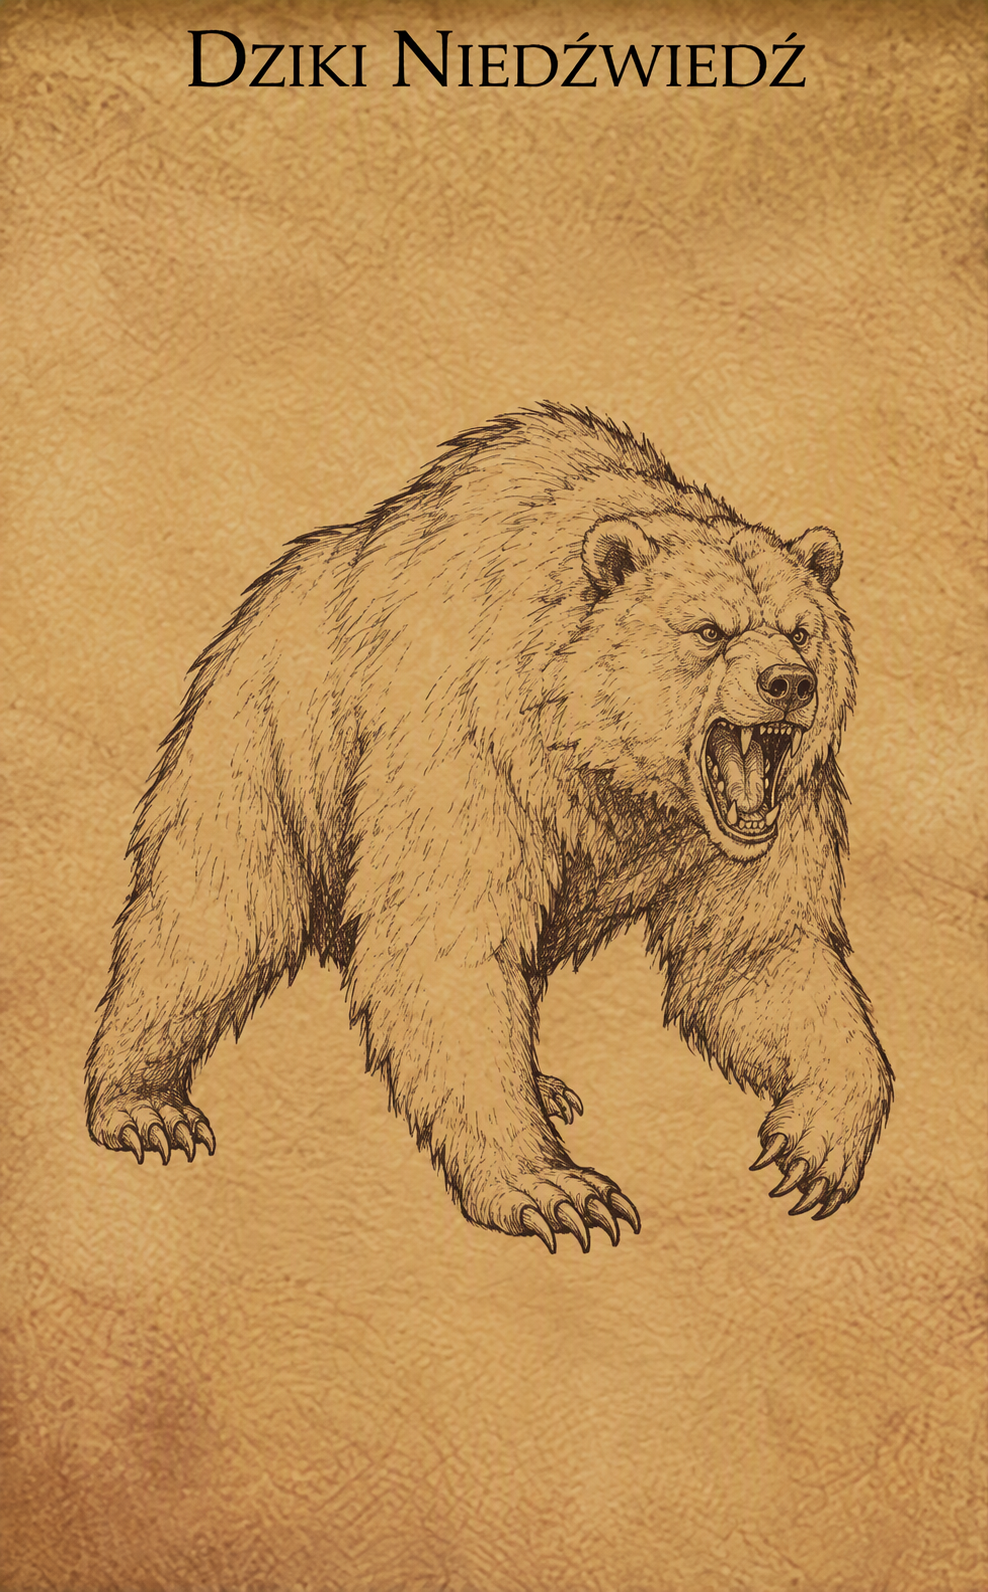
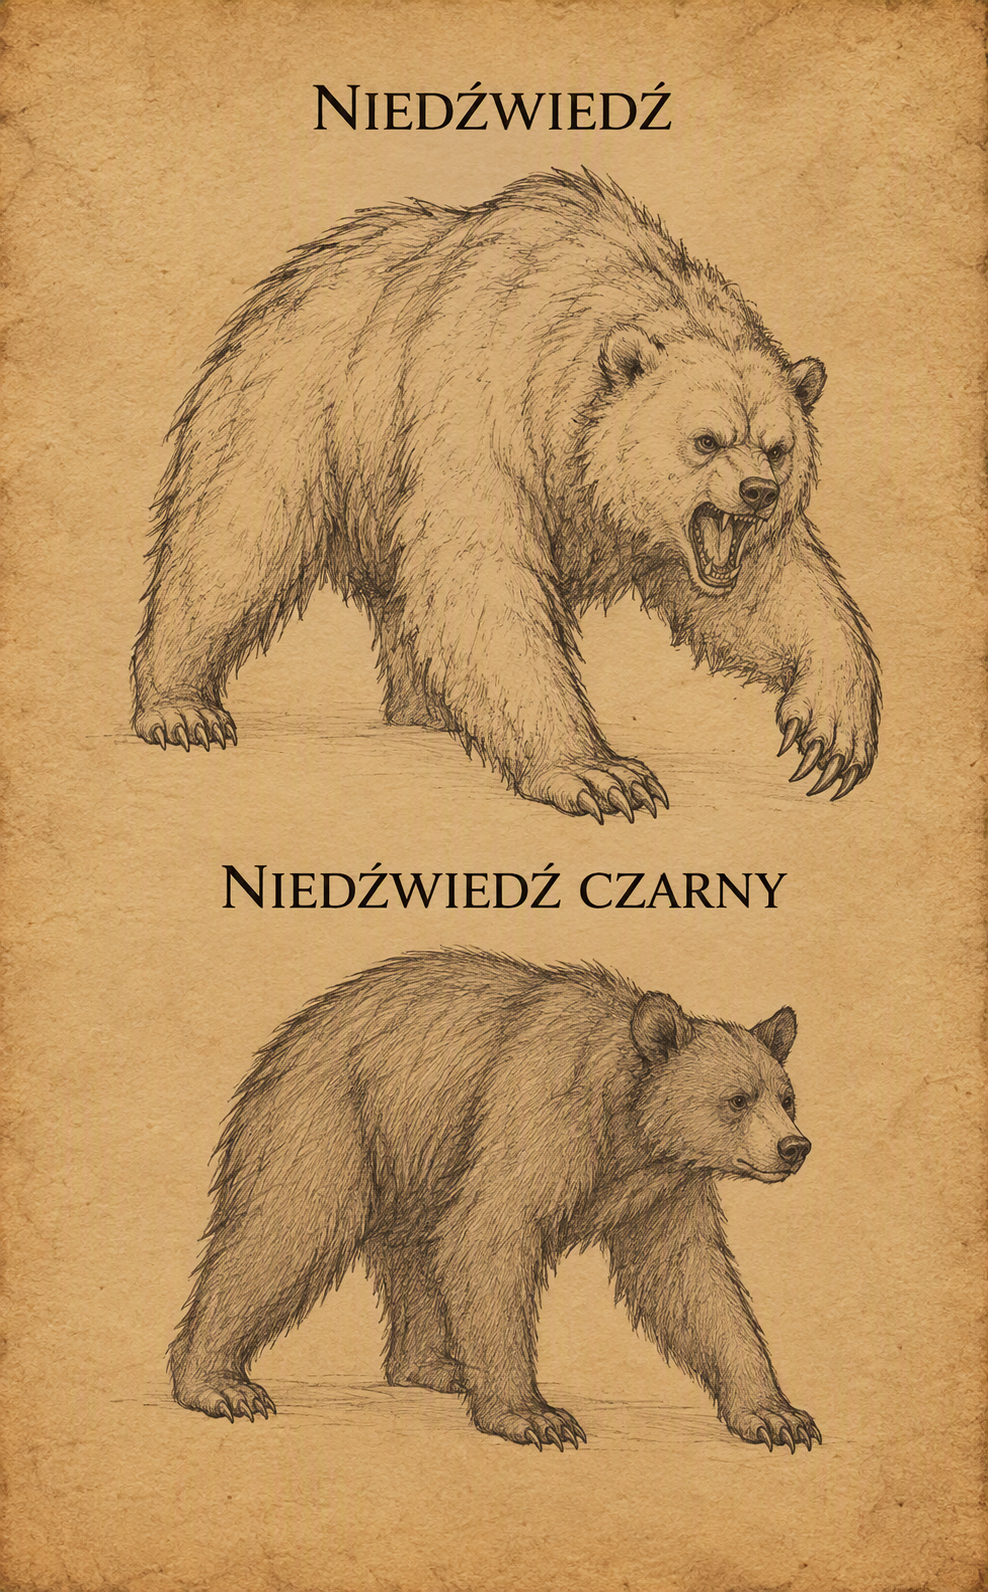
new file:   docs/images/bandyta.webp 	new file:   docs/images/belkotek.webp 	new file:   docs/images/dzik.webp 	new file:   docs/images/leech_szkic.webp 	modified:   docs/images/niedzwiedz.webp 	new file:   docs/images/niedzwiedziozuk.webp 	new file:   docs/images/ogr.webp 	new file:   docs/images/o

diff --git a/docs/other/bestie.md b/docs/other/bestie.md
@@ -1,11 +1,22 @@
 
 |Nazwa|Opis|Wygląd|
 |-------------|-------------------------------------------|-----------------------|
-|Dziki niedźwiedź|Potężne stworzenie reprezentujące czystą, nieokiełznaną siłę natury. Spotykany najczęściej w gęstych lasach, górskich ostępach i jaskiniach, z reguły unika ludzi, chyba że broni swojego terytorium, młodych lub szuka pożywienia przed zimą. W walce polega na ogromnej masie, ostrych pazurach i potężnym uścisku szczęk, szarżując na przeciwnika z oślepiającą furią. Choć dla doświadczonych poszukiwaczy przygód stanowi jedynie naturalne zagrożenie, w oczach druidów i traperów pozostaje jednym z najbardziej szanowanych i niebezpiecznych drapieżników dzikich ostępów.|[![Niedźwiedź](../images/niedzwiedz.webp){ .center-img width="30%" }](../images/niedzwiedz.webp)|
+|Bełkotek|Chory bełkotek (zwany także gibberlingiem) to szkaradna, zniekształcona odmiana i tak już przerażającego stworzenia stanowi jedno z najbardziej odpychających zagrożeń w głębi podziemi i mrocznych kniei. Dotknięty toczącą go zarazą, chory bełkotek jest jeszcze bardziej nieprzewidywalny i agresywny niż jego zdrowi pobratymcy. Z jego owrzodzonej skóry sączy się jadowita mazi, a z pyska – obok charakterystycznego, szaleńczego bełkotu – dobiega głuchy, męczeński skowyt. W walce stanowi podwójne niebezpieczeństwo: choć sam w sobie jest fizycznie wątły i łatwy do pokonania, bezpośredni kontakt z nim grozi zarażeniem ciężką chorobą. Każdy cios zadany temu stworzeniu lub ukąszenie z jego strony może przenieść na poszukiwacza przygód wyniszczającą infekcję, co czyni starcie z całymi chmarami tych potworów wyścigiem z czasem.|[![Bełkotek](../images/belkotek.webp){ .center-img width="30%" }](../images/belkotek.webp)|
+|Dzik|To niezwykle agresywny i terytorialny drapieżnik, na którego łatwo natknąć się w gęstych lasach Wybrzeża Mieczy. Dzik nie czeka na ruch przeciwnika – wyczuwszy zagrożenie, natychmiast prze do przodu pełną szarżą, starając się nadziać wroga na ostre jak brzytwa kły. Ze względu na swoją ślepą furię potrafi z łatwością powalić poturbowanego lub nieostrożnego poszukiwacza przygód.|[![Dzik](../images/dzik.webp){ .center-img width="30%" }](../images/dzik.webp)|
 |Hobgoblin|Dyscyplina, bezwzględność i wojenny kunszt – hobgobliny to sprytni, mierzący ponad metr osiemdziesiąt wzrostu kuzyni goblinów, tworzący wysoce zorganizowane militarne społeczności. Odziani w ciężkie zbroje i wyszkoleni w walce w zwartej formacji, traktują wojnę jak rzemiosło, a bezdyskusyjne posłuszeństwo rozkazom stawiają ponad własne życie. Przydzielani bezpośrednio do oddziałów bojowych magowie hobgoblinów traktują magię jak kolejną broń masowego rażenia. Wyszkoleni w szkole odwoływania (evocation), ciskają w szeregi wrogów potężne kule ognia czy błyskawice z przerażającą precyzją, dbając o to, by ich obszarowe zaklęcia omijały sojuszniczych żołnierzy. Duchowy filar legionu, służący krwawym bóstwom wojny, takim jak Maglubiyet. Szamani podtrzymują fanatyczne morale wojsk, natchnionymi modlitwami wzmacniając siłę ataku swoich braci, a także leczą rannych dowódców na polu bitwy i wzywają mroczne błogosławieństwa, by złamać wolę walki przeciwnika.|[![Hobgoblin](../images/hobgoblin.webp){ .center-img width="30%" }](../images/hobgoblin.webp)|
 |Mały pająk|Mimo iż z nazwy „mały”, ten obrzydliwy stawonóg rozmiarem dorównuje wyrośniętemu psu i stanowi śmiertelne zagrożenie dla samotnych wędrowców. Poruszając się na długich, owłosionych odnóżach z zaskakującą prędkością, zamieszkuje zarośnięte knieje, mroczne jaskinie oraz zapomniane krypty. Zamiast czekać w sieci, często aktywnie tropi swoje ofiary, by powalić je ciężarem własnego ciała i zatopić w nich wielkie kły. Jego jad wywołuje natychmiastowe odtwienie i paraliż mięśni, co pozwala stworzeniu sprawnie owinąć obezwładniony łup w szczelny kokon z pajęczyny.|[![Mały pająk](../images/maly_pajak.webp){ .center-img width="30%" }](../images/maly_pajak.webp)|
+|Niedźwiedziożuk|Najwięksi, najsilniejsi i najbardziej skryci pośród wszystkich istot goblinoidalnych. Mierzący ponad dwa metry wzrostu, porośnięci gęstym futrem bugbearzy łączą brutalną siłę fizyczną z zaskakującą naturalną zręcznością. W przeciwieństwie do głośnych i zdyscyplinowanych hobgoblinów, bugbearzy preferują samotne łowy lub działanie w małych grupach, specjalizując się w cichym skradaniu się i organizowaniu krwawych zasadzek. W walce wykorzystują swoją ogromną masę oraz broń obuchową i sieczną, atakując z zaskoczenia z siłą zdolną zdruzgotać pancerz wojownika w pierwszym uderzeniu.|[![Niedźwiedziożuk](../images/niedzwiedziozuk.webp){ .center-img width="30%" }](../images//niedzwiedziozuk.webp)|
+|Niedźwiedź|Dziki niedźwiedź - ten powszechnie spotykany na leśnych traktach i w dzikich ostępach drapieżnik to jedno z podstawowych zagrożeń dla początkujących wędrowców. Jest porywczy, wysoce terytorialny i w pełni polega na brutalnej sile. W walce natychmiast szarżuje na ofiarę, starając się przygnieść ją masą swojego cielska i zadać głębokie rany potężnymi uderzeniami pazurów, co czyni go niebezpiecznym przeciwnikiem.<BR>Niedźwiedź czarny - najmniejszy i najsłabszy przedstawiciel rodziny niedźwiedzi, zamieszkujący obrzeża lasów, jaskinie i górskie przełęcze. Z natury jest znacznie mniej agresywny od swoich większych krewniaków – często zachowuje neutralność i po prostu ignoruje wędrowców, dopóki nie zostanie bezpośrednio zaatakowany. |[![Niedźwiedź](../images/niedzwiedz.webp){ .center-img width="30%" }](../images/niedzwiedz.webp)|
+|Ogr|To ogromny, brutalny i wyjątkowo tępy stwór, stanowiący stałe zagrożenie na leśnych szlakach, w górskich przełęczach oraz opuszczonych ruinach Wybrzeża Mieczy. Mierzący ponad trzy metry wzrostu drapieżnik kieruje się wyłącznie wiecznym głodem i pierwotną agresją, rzadko dając się przekonać jakimkolwiek argumentom. W walce całkowicie ignoruje taktykę, polegając na niszczycielskiej sile swoich potężnych ramion i ciężkiej maczugi lub pnia drzewa. Choć jest powolny i łatwy do wyminęcia przez zwinnego wojownika, pojedyncze trafienie jego bronią potrafi zdruzgotać pancerz i powalić nawet doświadczonego poszukiwacza przygód.|[![Ogr](../images/ogr.webp){ .center-img width="30%" }](../images/ogr.webp)|
 Pełzacz ścierwojad|Głęboko w podziemnych korytarzach, tam gdzie zapach wilgoci miesza się z odorem rozkładu, po ścianach i sufitach bezszelestnie mknie Pełzacz Ścierwojad. Ten gigantyczny, obrzydliwy stawonóg jest wiecznie głodną czystką podziemi – zwabiony zapachem krwi i śmierci, poluje z zaskoczenia, spadając na niczego niespodziewających wędrowców wprost z ciemności. Wokół jego szczczęk wije się pęk obrzydliwych macek ociekających paraliżującym śluzem; wystarczy jedno muśnięcie, by śmiałek zastygł w bezruchu, bezradnie patrząc, jak stwór powoli wciąga go do swojego leża, by pożreć go żywcem.|[![Pełzacz ścierwojad](../images/pelzacz_scierwojad.webp){ .center-img width="30%" }](../images/pelzacz_scierwojad.webp)|
+|Rozbójnik|**Rozbójnik** - zwykły oprych, zbój lub dezerter, który porzucił prawo na rzecz łatwego zysku na szlakach handlowych Wybrzeża Mieczy. Odziany w skórzaną zbroję i uzbrojony w miecz, topór lub krótki łuk, rzadko działa w samotności, preferując zasadzki w rejonach leśnych i na mało uczęszczanych traktach. Choć pojedynczo nie stanowi wielkiego wyzwania dla doświadczonych wędrowców, w grupie bywa śmiertelnie niebezpieczny – zwłaszcza gdy zasypuje swoją ofiarę gradem strzał z ukrycia.<BR>**Rozbójnik karawanowy** - wyspecjalizowany zbir, należący do dobrze zorganizowanych grup przestępczych, które polują bezpośrednio na bogate transporty kupieckie. W przeciwieństwie do zwykłego oprycha, charakteryzuje się większą dyscypliną, lepszym wyekwipowaniem oraz brakiem skrupułów. Doskonale zna słabe punkty chroniących strażników i metody szybkiego paraliżowania wozów, przez co starcie z nim wymaga od drużyny znacznie większej ostrożności i szybkiej eliminacji celów na odległość.|[![Rozbójnik](../images/bandyta.webp){ .center-img width="30%" }](../images/bandyta.webp)|
 |Szaroskóry|Szaroskóry (zwany też duergarem lub krasnoludem szarym) to ponura, wypaczona wiekami niewoli u łupieżców umysłów rasa krasnoludów zamieszkująca głębiny Podmroku. Od swoich powierzchniowych kuzynów różnią się aszowatą skórą, pozbawionymi źrenic oczami i bezwzględnym, wyzbytym radości podejściem do życia. Zamiast tradycyjnego rzemiosła przedkładają ciężką niewolniczą pracę i podboje, a dzięki przebytej ewolucji i magii potrafią stawać się całkowicie niewidzialni oraz magicznie powiększać swoje rozmiary podczas walki.|[![Szczur](../images/szaroskory.webp){ .center-img width="30%" }](../images/szaroskory.webp)|
-|Szczur|Szczur jaki jest każdy widzi. A jak nie widział to jego szczęście. Olbrzymi szczur jest wiekszy, chyba top jasne?|[![Szczur](../images/szczur.webp){ .center-img width="30%" }](../images/szczur.webp)|
+|Szczur|Szczur jaki jest każdy widzi. A jak nie widział to jego szczęście. Olbrzymi szczur jest wiekszy, chyba to jasne?|[![Szczur](../images/szczur.webp){ .center-img width="30%" }](../images/szczur.webp)|
 |Szkielet wojownik|Szkielet wojownik to ożywiona magią nekromancji pozostałość po poległym żołnierzu, ślepo wykonująca rozkazy swojego twórcy. Pozbawiony tkanki, lęku i własnej woli, prze naprzód z mechaniczną nieustępliwością, dzierżąc spękaną tarczę oraz wyszczerbiony miecz lub włócznię. Choć sam w sobie jest kruchy i podatny na obuchowe uderzenia, stanowi poważne zagrożenie w grupie, walcząc bezczelnie aż do całkowitego rozsypania się w pył.|[![Szkielet wojownik](../images/szkielet_wojownik.webp){ .center-img width="30%" }](../images/szkielet_wojownik.webp)|
+|Wąż|Olbrzymi wąż to groźny, kilkunastometrowy drapieżnik zamieszkujący gęste dżungle, bagna oraz mroczne zalane podziemia. Porusza się bezszelestnie w gęstwinie lub pod powierzchnią wody, atakując z zaskoczenia z szybkością uderzenia pioruna. W zależności od gatunku, zabija błyskawicznym ukąszeniem wstrzykującym śmiercionośny jad lub oplata ofiarę potężnym, umięśnionym ciałem, dławiąc ją i miażdżąc kości przed połknięciem w całości.|[![Olbrzymi Wąż](../images/waz.webp){ .center-img width="30%" }](../images/waz.webp)|
+|Wilk|To jedno z najczęstszych zagrożeń czyhających na leśnych traktach i dzikich obszarach Wybrzeża Mieczy. Drapieżnik ten rzadko atakuje w pojedynkę – zazwyczaj przemierza knieje w watahach, błyskawicznie okrążając swoją ofiarę. Choć pojedynczy osobnik ma niewiele punktów życia i bez trudu pada od ciosów miecza, w grupie potrafi szybko nadwerężyć siły początkującej drużyny, nękając bohaterów szybkimi atakami z zaskoczenia.|[![Wilk](../images/wilk.webp){ .center-img width="30%" }](../images/wilk.webp)|
+|Xvart|Te niewielkie, niebieskoskóre i krzykliwe stworzenia stanowią jedno z najbardziej uciążliwych zagrożeń na dzikich obszarach Wybrzeża Mieczy. Znane ze swojej niespotykanej tchórzliwości, xvarty rzadko atakują w pojedynkę – szukają przewagi w przytłaczającej liczebności, nękając podróżnych głośnym wrzaskiem i atakując chmarami z ukrycia. Uzbrojeni w prymitywne sztylety, krótkie miecze lub proce, w walce bezczelnie wykorzystują swoją zwinność, jednak wystarczy powalić kilku z nich lub ich przywódcę, by reszta uciekła w popłochu w gęstwiny.|[![Xvart](../images/xvart.webp){ .center-img width="30%" }](../images/xvart.webp)|
 
+
+
+#|Szczur|Szczur jaki jest każdy widzi. A jak nie widział to jego szczęście. Olbrzymi szczur jest wiekszy, chyba top jasne?|[![Szczur](../images/szczur.webp){ .center-img width="30%" }](../images/szczur.webp)|

diff --git a/docs/storyline/chapter1-1.md b/docs/storyline/chapter1-1.md
@@ -47,6 +47,7 @@ Idąc dalej, podróżnicy pośpiesznie wymienili kilka zdań z Binkosem <span cl
 
 Nie zwlekając dłużej, drużyna ruszyła zgodnie z drogowskazami na północ, w stronę Pomocnej Dłoni.
 
+:material-paw: **Bestiariusz:** *Olbrzymi Wąż, Wilk, Czarny Niedźwiedź*
 ---
 
 [![Candlekeep](../maps/BG2800.webp){ .center-img width="40%" }](../maps/BG2800.webp)
@@ -63,5 +64,6 @@ W północnej części szlaku drużyna minęła Aolna <span class="mb">6</span>.
 
 Wreszcie w oddali zamajaczyły masywne mury otaczające cel ich podróży. Po wielu godzinach marszu drużyna dotarła do warownej gospody *Pod Pomocną Dłonią*. Leech miał nadzieję, że za jej bramami odnajdzie **Jaheirę** i **Khalida**, a wraz z nimi odpowiedzi na przynajmniej część pytań pozostawionych przez śmierć **Goriona**.
 
+:material-paw: **Bestiariusz:** *Dzik, Wilk, Chory Bełkotek, Rozbójnik, Rozbójnik karawanowy, Xvart, Niedźwiedziożuk, Ogr*
 
 

diff --git a/docs/other/leech.md b/docs/other/leech.md
@@ -1,5 +1,6 @@
 # _**Leech**_
 ![Leech](../images/Leech.webp){ width="300" }
+![Leech](../images/leech_szkic.webp){ width="200" }
 
 Skłamałbym, gdybym powiedział, że jest w tej chwili wiele do opowiedzenia o naszym bohaterze. Odkąd tylko pamięta, budził się pośród ksiąg i komnat wielkiej biblioteki Candlekeep, miejsca, w którym magia i historia zdają się mimowolnie opuszczać stronice starych tomów i nieuchwytnie przenikać wszystko dookoła.
 

diff --git a/docs/other/npc.md b/docs/other/npc.md
@@ -68,7 +68,7 @@
 |Sintara Al-Mustafa |BG2300|:material-check-circle:|sfer poszukiwacz|
 |Ms Godfrey|BG2300|:material-check-circle:|torb bezdennych dostaczywni|
 |Churin|BG2300|:material-check-circle:|nasz szlakowy do Icewind Dale|
-|Joia|BG2306|:material-check-circle:|nasz szlakowy do Icewind Dale|
+|Joia|BG2306|:material-check-circle:|pierścienia szukająca|
 
 Pomocna dłoń - dom Joi - BG306
 Pomocna dłoń - Świątynia Mądrości - BG304
